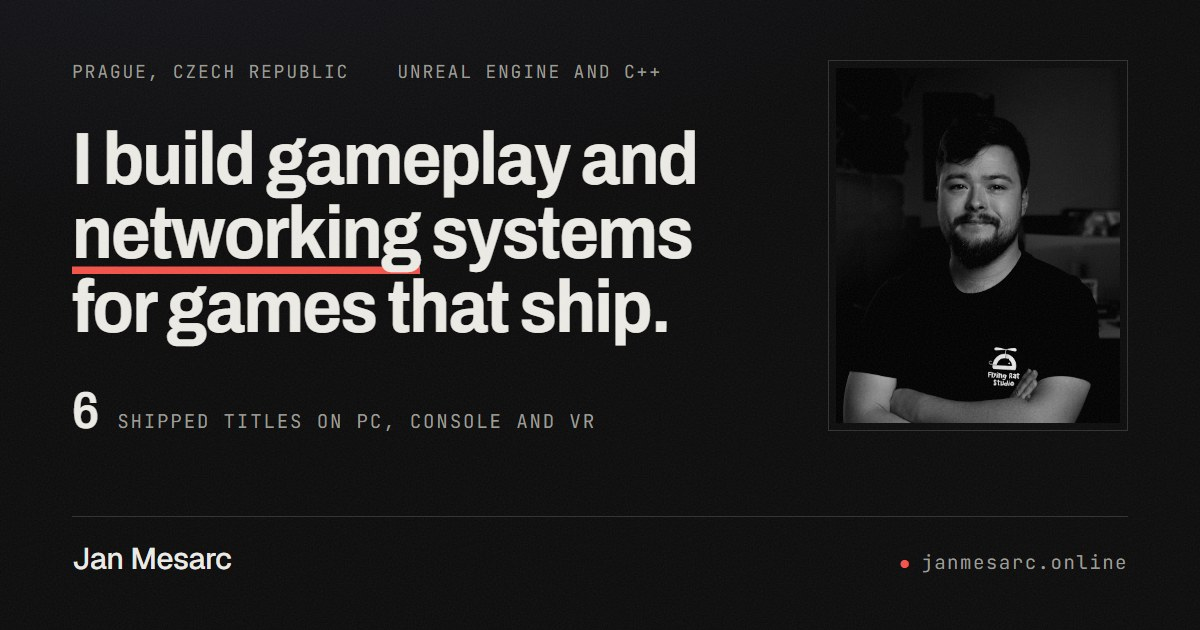
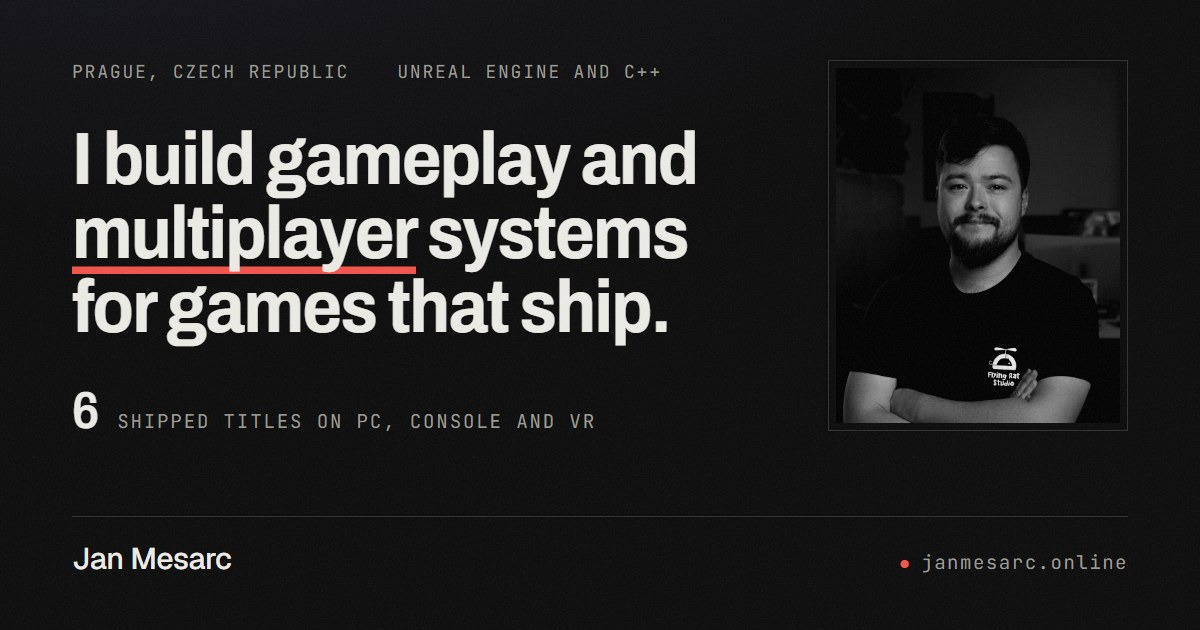
Fix portfolio v4 metadata and version labels

Changed region(s): [[0.0617, 0.3016, 0.5858, 0.4524]]

diff --git a/Portfolio/wwwroot/index.html b/Portfolio/wwwroot/index.html
@@ -13,23 +13,23 @@
     </script>
     <meta charset="utf-8" />
     <meta name="viewport" content="width=device-width, initial-scale=1" />
-    <title>Jan Mesarc, gameplay and networking programmer</title>
-    <meta name="description" content="Jan Mesarc is a gameplay and networking programmer in Prague, working in Unreal Engine and C++ at Flying Rat Studio. Shipped credits include The Last Oricru, Phantom Fury, MOTHERGUNSHIP: FORGE and Beat Saber." />
+    <title>Jan Mesarc, game developer specializing in gameplay and multiplayer</title>
+    <meta name="description" content="Jan Mesarc is a game developer in Prague, specializing in gameplay and multiplayer systems with Unreal Engine and C++. Shipped credits include The Last Oricru, Phantom Fury, MOTHERGUNSHIP: FORGE and Beat Saber." />
     <meta name="author" content="Jan Mesarc" />
     <link rel="canonical" href="https://janmesarc.online/" />
     <meta property="og:type" content="website" />
     <meta property="og:url" content="https://janmesarc.online/" />
-    <meta property="og:title" content="Jan Mesarc, gameplay and networking programmer" />
-    <meta property="og:description" content="Unreal Engine and C++ gameplay and multiplayer programmer in Prague. Shipped PC, console and VR titles." />
+    <meta property="og:title" content="Jan Mesarc, game developer specializing in gameplay and multiplayer" />
+    <meta property="og:description" content="Unreal Engine and C++ gameplay and multiplayer systems in Prague. Shipped PC, console and VR titles." />
     <!-- Social card source: tools/og-card (re-render with render.ps1 after editing) -->
     <meta property="og:image" content="https://janmesarc.online/assets/og-card.jpg" />
     <meta property="og:image:type" content="image/jpeg" />
     <meta property="og:image:width" content="1200" />
     <meta property="og:image:height" content="630" />
-    <meta property="og:image:alt" content="Jan Mesarc: I build gameplay and networking systems for games that ship. 6 shipped titles on PC, console and VR." />
+    <meta property="og:image:alt" content="Jan Mesarc, game developer: I build gameplay and multiplayer systems for games that ship. 6 shipped titles on PC, console and VR." />
     <meta name="twitter:card" content="summary_large_image" />
     <meta name="twitter:site" content="@jame581" />
-    <meta name="twitter:image:alt" content="Jan Mesarc: I build gameplay and networking systems for games that ship. 6 shipped titles on PC, console and VR." />
+    <meta name="twitter:image:alt" content="Jan Mesarc, game developer: I build gameplay and multiplayer systems for games that ship. 6 shipped titles on PC, console and VR." />
     <base href="/" />
     <!-- Google fonts -->
     <link rel="preconnect" href="https://fonts.googleapis.com" />

diff --git a/tools/og-card/og-card.html b/tools/og-card/og-card.html
@@ -43,7 +43,7 @@ h1{margin:40px 0 0;font-family:var(--disp);font-weight:700;font-variation-settin
   <div class="top">
     <div>
       <div class="meta"><span>Prague, Czech Republic</span><span>Unreal Engine and C++</span></div>
-      <h1>I build gameplay and <span class="mark">networking</span> systems for games that ship.</h1>
+      <h1>I build gameplay and <span class="mark">multiplayer</span> systems for games that ship.</h1>
       <div class="shipped"><span class="n">6</span><span class="l">Shipped titles on PC, console and VR</span></div>
     </div>
     <figure class="portrait"><img src="../../Portfolio/wwwroot/assets/profile1.jpg" alt="" /></figure>
